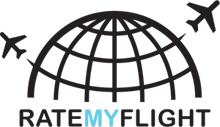
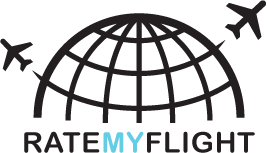
visual stuff

diff --git a/example_project/site_media/css/style.css b/example_project/site_media/css/style.css
@@ -1,15 +1,17 @@
+html, body { height: 100%; }
+body { width: 100%; background: #e4fafe url("../img/bg.jpg") repeat-x 0 0; font-family: helvetica, arial, sans serif; font-size: 12px; position: relative; }
 
-body { width: 100%; position: relative; background: #66cbe7 url("../img/bg.gif") repeat-x 0 0; font-family: helvetica, arial, sans serif; font-size: 12px; }
-
-#container { width: 1000px; position: relative; margin: 0 auto; }
-div#header { margin: 0 auto; }
-#header h1.logo { display: block; width: 220px; height: 127px; margin: 15px 0; background: url("../img/ratemyflight.png") no-repeat 0 0; text-indent: -9999px; }
-div#message { background: #bbb; text-align: left; -moz-box-shadow: 3px 3px 6px #606060; -webkit-box-shadow: 3px 3px 6px #606060; padding: 15px; margin-bottom: 20px; border: 1px solid #231f20; }
-div#message h2 { margin: 0; font-size: 14px; margin-bottom: 10px; }
-div#message p { font-size: 11px; line-height: 14px; margin-bottom: 6px; }
-div#map_holder { position: relative; margin: 0 auto 20px; text-align: center; overflow: hidden; -moz-box-shadow: 3px 3px 6px #606060; border: 1px solid #231f20; background: #fff; }
-div#map_canvas { height: 500px; }
-div#map_data { width: 992px; padding: 4px; height: 20px; position: absolute; z-index: 3; top: 0; background: rgba(64, 64, 64, 0.5); text-align: right; color: #fff; }
+#wrapper { position: relative; width: 100%; min-height: 100%; margin: 0 auto -99px; background: url("../img/foot-cityscape.gif") repeat-x center bottom; }
+#foot, .push { height: 99px; clear: both; }
+#container { width: 960px; margin: 120px auto 0; background: #fff; -moz-box-shadow: 3px 3px 6px #606060; -webkit-box-shadow: 3px 3px 6px #606060; }
+#header { margin: 0 auto; height: 80px; position: relative; }
+#header h1.logo { position: absolute; top: -87px; left: 341px; display: block; width: 267px; height: 153px; margin: 0 auto; background: url("../img/ratemyflight.png") no-repeat 0 0; text-indent: -9999px; }
+#message { position: absolute; z-index: 30; width: 400px; top: -110px; right: 30px; background: rgba(221, 221, 221, 0.8); text-align: left; -moz-box-shadow: 3px 3px 6px #606060; -webkit-box-shadow: 3px 3px 6px #606060; padding: 15px; margin-bottom: 20px; border: 1px dashed #231f20; }
+#message h2 { margin: 0; font-size: 14px; margin-bottom: 10px; }
+#message p { font-size: 11px; line-height: 14px; margin-bottom: 6px; }
+#map_holder { position: relative; margin: 0 auto 20px; text-align: center; overflow: hidden; border: 1px solid #231f20; background: #fff; }
+#map_canvas { height: 500px; }
+#map_data { width: 950px; padding: 4px; height: 20px; position: absolute; z-index: 3; top: 0; background: rgba(64, 64, 64, 0.5); text-align: right; color: #fff; }
 #form_rater { width: 500px; height: 30px; background: #231f20; color: #888; position: absolute; z-index: 100; top: 0; left: 0;
 	-moz-transform-origin: 15px 15px;
     -webkit-transform-origin: 15px 15px;
@@ -17,7 +19,7 @@ div#map_data { width: 992px; padding: 4px; height: 20px; position: absolute; z-i
     -moz-transform: rotate(90deg);
     -o-transform: rotate(90deg);
 }
-div#form_rater h2 { text-align: center; }
+#form_rater h2 { text-align: center; }
 
 /**div#form_rater {
     width: 500px;
@@ -27,7 +29,7 @@ div#form_rater h2 { text-align: center; }
     position: absolute;
 }**/
 
-div#form_rater h2 { font-size: 14pt; margin: 0 auto; }
-div#footer { margin: 10px auto; text-align: center; }
-div#footer > p { font-size: 10px; color: #231f20; }
+#form_rater h2 { font-size: 14pt; margin: 0 auto; }
+#footer { margin: 10px auto; text-align: center; }
+#footer > p { font-size: 10px; color: #231f20; }
 .cl { clear: both; }

diff --git a/example_project/templates/base.html b/example_project/templates/base.html
@@ -7,7 +7,7 @@
     <meta name="description" content="" /> 
     <title>Rate My Flight - Global, passenger created flight ratings</title>
 
-    <link rel="shortcut icon" type="image/x-icon" href="{{ MEDIA_U }}img/favicon.ico" />
+    <link rel="shortcut icon" href="/favicon.ico" />
     <link rel="stylesheet" href="{{ MEDIA_URL }}css/reset.css" >
 	<link rel="stylesheet" href="{{ MEDIA_URL }}css/style.css" >
 
@@ -16,48 +16,48 @@
 
 </head>
 <body>
-	<div id="container">
-
-		<div id="header">
-			<h1 class="logo">Rate My Flight</h1>
-			
-			<div id="message">
-				<h2>We need your flight data!</h2>
-				<p>Send a tweet to @ratemyflight or use the hashtag #ratemyflight
-				telling us how good or not your flight was out of 10. Send your
-				tweet like this:<p>
-				<p class="tweet">
-				{Flight Number eg: <strong>BA123</strong>} 
-				{3 letter airport code you left from eg: <strong>LHR</strong>} 
-				{3 letter airport code you went to eg: <strong>SYD</strong>} 
-				{your rating out of 10 eg: <strong>8/10</strong>} 
-				{#ratemyflight or @ratemyflight} {any comments you want
-				to appear next to your rating}
-				</p>
-				<p class="tweet">
-				EG: "<strong>BA123 LHR SYD 8/10</strong> #ratemyflight I really enjoyed this flight!"
-				</p>
-				<p style="text-align:right;">
-    				<a href="{% url home %}">Home</a>
-    				<a href="{% url rating %}">Add a rating</a>
-				</p>
-				
+	<div id="wrapper">
+		<div id="message">
+			<h2>We need your flight data!</h2>
+			<p>Send a tweet to @ratemyflight or use the hashtag #ratemyflight
+			telling us how good or not your flight was out of 10. Send your
+			tweet like this:<p>
+			<p class="tweet">
+			{Flight Number eg: <strong>BA123</strong>} 
+			{3 letter airport code you left from eg: <strong>LHR</strong>} 
+			{3 letter airport code you went to eg: <strong>SYD</strong>} 
+			{your rating out of 10 eg: <strong>8/10</strong>} 
+			{#ratemyflight or @ratemyflight} {any comments you want
+			to appear next to your rating}
+			</p>
+			<p class="tweet">
+			EG: "<strong>BA123 LHR SYD 8/10</strong> #ratemyflight I really enjoyed this flight!"
+			</p>
+			<p style="text-align:right;">
+				<a href="{% url home %}">Home</a>
+				<a href="{% url rating %}">Add a rating</a>
+			</p>
+		</div>
+		<div id="container">
+			<div id="header">
+				<h1 class="logo">Rate My Flight</h1>
 			</div>
+	
+			{% block main %}{% endblock %}
+			
+			<div id="tops">
+			</div>
+			
 		</div>
-
-		{% block main %}{% endblock %}
-		
-		<div id="tops">
-		</div>
-
 		<div id="footer">
 			<p>This site powered by <a href="http://www.djangoproject.com">Django</a>, 
 			produced by <a href="http://djangodash.com/teams/citrus/">Team Citrus</a> as part of
 			<a href="http://djangodash.com/">Django Dash 2010</a>. 
 			Follow us on twitter <a href="http://twitter.com/ratemyflight">@ratemyflight</a></p>
 		</div>
-
+		<div class="push"></div>
 	</div>
+	<div id="foot"></div>
 </body>
 
 </html>
